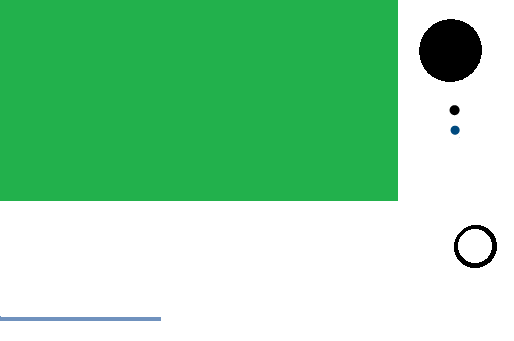
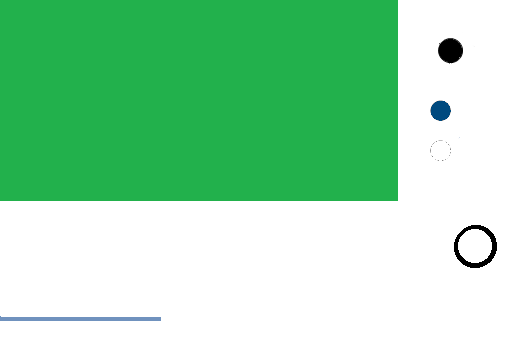
Размеры луз и шаров

Changed region(s): [[0.8093, 0.0587, 0.9339, 0.2639], [0.8405, 0.2933, 0.9027, 0.4106]]

diff --git a/src/ru/smallmazila/pool/GameScreen.java b/src/ru/smallmazila/pool/GameScreen.java
@@ -12,8 +12,8 @@ import android.graphics.Rect;
 public class GameScreen extends Screen {
 	World world;
 	public static Rect pocketRect = new Rect(400, 0, 400 + 100, 100);
-	public static Rect cueBallRect = new Rect(450, 125, 450 + 11, 125 + 11);
-	public static Rect ballRect = new Rect(448, 104, 448 + 16, 104 + 16);
+	public static Rect cueBallRect = new Rect(430, 140, 430 + 22, 140 + 22);
+	public static Rect ballRect = new Rect(430, 100, 430 + 22, 100 + 22);
 	public static Rect cueRect = new Rect(0, 315, 0 + 160, 315 + 10);
 	
 	public GameScreen(Game game){

diff --git a/src/ru/smallmazila/pool/math/BallPosition.java b/src/ru/smallmazila/pool/math/BallPosition.java
@@ -4,10 +4,10 @@ import ru.smallmazila.pool.Table;
 
 public class BallPosition {	
 	public static int firstBallStartX(){
-		return Table.LEFT+3*Table.TABLE_WIDTH/4-25;
+		return Table.LEFT+3*Table.TABLE_WIDTH/4-7;
 	}
 	
 	public static int firstBallStartY(){
-		return Table.TOP+Table.TABLE_HEIGHT/2-25;
+		return Table.TOP+Table.TABLE_HEIGHT/2-7;
 	}
 }

diff --git a/src/ru/smallmazila/pool/CueBall.java b/src/ru/smallmazila/pool/CueBall.java
@@ -2,6 +2,6 @@ package ru.smallmazila.pool;
 
 
 public class CueBall extends Ball {
-	public static int STARTX = Table.LEFT+Table.TABLE_WIDTH/4-25;
-	public static int STARTY = Table.TOP+Table.TABLE_HEIGHT/2-25;
+	public static int STARTX = Table.LEFT+Table.TABLE_WIDTH/4-7;
+	public static int STARTY = Table.TOP+Table.TABLE_HEIGHT/2-7;
 }

diff --git a/src/ru/smallmazila/pool/Cue.java b/src/ru/smallmazila/pool/Cue.java
@@ -1,8 +1,8 @@
 package ru.smallmazila.pool;
 
 public class Cue {
-	//public final static int CUE_LENGTH = 160;
-	public final static int CUE_LENGTH = 200;
+	public final static int CUE_LENGTH = 160;
+	//public final static int CUE_LENGTH = 200;
 	
 	public Cue(){
 	}

diff --git a/src/ru/smallmazila/pool/Ball.java b/src/ru/smallmazila/pool/Ball.java
@@ -1,7 +1,7 @@
 package ru.smallmazila.pool;
 
 public class Ball {
-	public static final int BALL_RADIUS = 9/2;
+	public static final int BALL_RADIUS = 10;
 	//public static final int BALL_RADIUS = 20;
 	public int x;
 	public int y;
